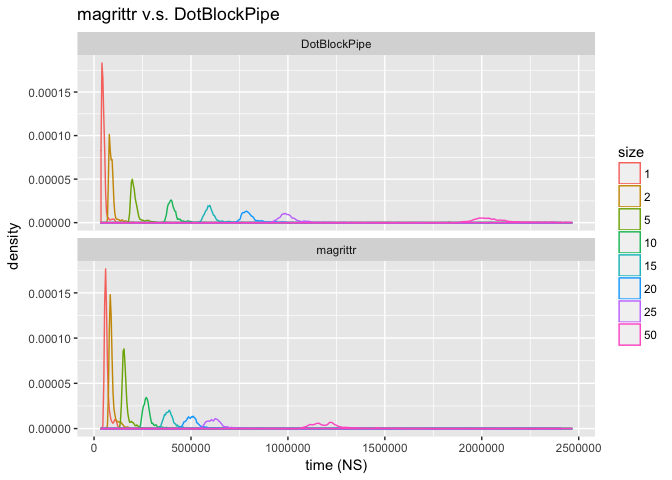
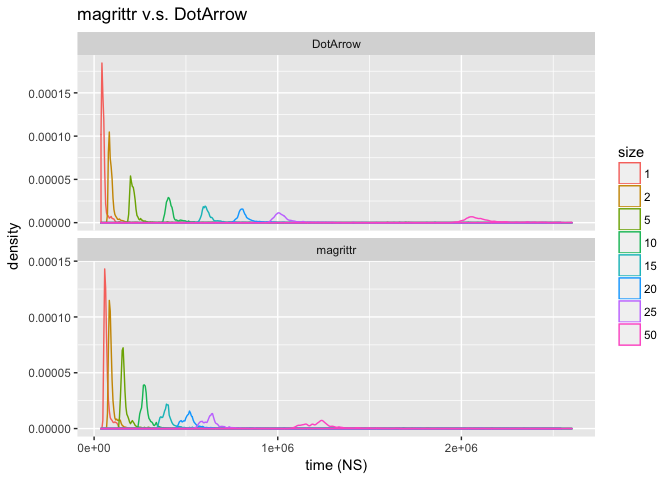
change names

diff --git a/extras/PipePerformance.md b/extras/PipePerformance.md
@@ -1,11 +1,11 @@
-Some timings for [`%.>%`](http://www.win-vector.com/blog/2017/07/in-praise-of-syntactic-sugar/).
+Some timings for [`%.>%`](http://www.win-vector.com/blog/2017/07/in-praise-of-syntactic-sugar/) ("dot arrow").
 
 Keep in mind for any *serious* application the calculation time on data will far dominate any piping overhead, but it is fun to look.
 
 So we will compare:
 
 -   `magrittr*` `magrittr::%>%` substitution.
--   `DotBlockPipe*` `wrapr::%.>%` substitution.
+-   `DotArrow*` `wrapr::%.>%` substitution.
 -   `BizarroPipe*` `->.;` substitution.
 
 ``` r
@@ -32,7 +32,7 @@ print(BizarroPipe_5)
     ## }
 
 ``` r
-print(DotBlockPipe_5)
+print(DotArrow_5)
 ```
 
     ## function () 
@@ -56,7 +56,7 @@ BizarroPipe_10()
     ## [1] -0.4774053
 
 ``` r
-DotBlockPipe_10()
+DotArrow_10()
 ```
 
     ## [1] -0.4774053
@@ -70,28 +70,28 @@ magrittr_10()
 ``` r
 bm <- microbenchmark(
   magrittr_1(),
-  DotBlockPipe_1(),
+  DotArrow_1(),
   BizarroPipe_1(),
   magrittr_2(),
-  DotBlockPipe_2(),
+  DotArrow_2(),
   BizarroPipe_2(),
   magrittr_5(),
-  DotBlockPipe_5(),
+  DotArrow_5(),
   BizarroPipe_5(),
   magrittr_10(),
-  DotBlockPipe_10(),
+  DotArrow_10(),
   BizarroPipe_10(),
   magrittr_15(),
-  DotBlockPipe_15(),
+  DotArrow_15(),
   BizarroPipe_15(),
   magrittr_20(),
-  DotBlockPipe_20(),
+  DotArrow_20(),
   BizarroPipe_20(),
   magrittr_25(),
-  DotBlockPipe_25(),
+  DotArrow_25(),
   BizarroPipe_25(), 
   magrittr_50(),
-  DotBlockPipe_50(),
+  DotArrow_50(),
   BizarroPipe_50(), 
   times=1000L
 )
@@ -99,56 +99,56 @@ print(bm)
 ```
 
     ## Unit: nanoseconds
-    ##               expr     min        lq        mean    median        uq
-    ##       magrittr_1()   49785   56912.5   69493.461   61248.0   68033.5
-    ##   DotBlockPipe_1()   35843   40754.5   49773.803   45063.0   51652.5
-    ##    BizarroPipe_1()     235    1007.0    2574.675    1483.5    1738.0
-    ##       magrittr_2()   72442   81543.5   94173.487   86616.0   93575.0
-    ##   DotBlockPipe_2()   71109   79621.0   97903.294   87159.5   95066.5
-    ##    BizarroPipe_2()     283    1224.5    3460.313    1596.5    1815.5
-    ##       magrittr_5()  134732  150432.0  169389.760  156668.5  166102.0
-    ##   DotBlockPipe_5()  178816  195179.0  224559.392  204326.5  217448.0
-    ##    BizarroPipe_5()     395    1409.5    4951.969    1859.0    2124.5
-    ##      magrittr_10()  236226  259765.5  295810.353  271615.5  284856.5
-    ##  DotBlockPipe_10()  359045  387702.0  430698.131  400453.5  417779.0
-    ##   BizarroPipe_10()     569    1690.5    7909.038    2161.0    2454.5
-    ##      magrittr_15()  336208  370699.5  423379.597  386789.0  403934.0
-    ##  DotBlockPipe_15()  541747  581219.5  639857.959  596953.5  616747.5
-    ##   BizarroPipe_15()     725    1643.5    9429.208    2185.0    2486.5
-    ##      magrittr_20()  438164  484500.0  547503.970  506089.5  526963.0
-    ##  DotBlockPipe_20()  726609  773966.5  869269.764  794647.5  824726.5
-    ##   BizarroPipe_20()     890    2054.5   12136.100    2523.0    2842.5
-    ##      magrittr_25()  539184  595130.5  677442.105  623097.5  648832.5
-    ##  DotBlockPipe_25()  908188  972307.5 1068904.649  998401.0 1033680.0
-    ##   BizarroPipe_25()    1055    2129.5   15094.721    2493.5    2799.0
-    ##      magrittr_50() 1060972 1146916.0 1362917.546 1205028.0 1251479.5
-    ##  DotBlockPipe_50() 1880236 1993322.0 2194177.990 2045266.5 2139704.0
-    ##   BizarroPipe_50()    1883    2945.5   27738.108    3542.5    3899.5
+    ##              expr     min        lq        mean    median        uq
+    ##      magrittr_1()   48278   57410.0   74216.642   62335.5   70707.0
+    ##      DotArrow_1()   37588   41809.0   52815.890   47109.0   52947.0
+    ##   BizarroPipe_1()     252    1049.0    3847.904    1467.5    1687.0
+    ##      magrittr_2()   73407   82568.5   97809.177   88267.0   97404.5
+    ##      DotArrow_2()   73481   81419.5  100928.773   88392.0   97672.0
+    ##   BizarroPipe_2()     340    1217.5    3509.339    1563.0    1780.0
+    ##      magrittr_5()  135607  152573.5  179806.616  159279.0  171085.0
+    ##      DotArrow_5()  182917  199828.0  229331.954  209792.0  221823.0
+    ##   BizarroPipe_5()     450    1383.0    5444.047    1892.0    2130.5
+    ##     magrittr_10()  239538  266117.0  310490.505  276787.5  289833.5
+    ##     DotArrow_10()  367405  399093.5  449396.838  410993.5  427876.5
+    ##  BizarroPipe_10()     664    1761.5   10335.687    2209.0    2495.0
+    ##     magrittr_15()  338597  379769.0  448122.763  396393.5  414006.0
+    ##     DotArrow_15()  552261  596873.5  667747.475  611742.0  637799.0
+    ##  BizarroPipe_15()     851    2006.5   11397.370    2554.0    2911.0
+    ##     magrittr_20()  446938  497076.5  631725.125  519712.5  541603.5
+    ##     DotArrow_20()  743556  796240.5  889188.471  812292.5  845972.0
+    ##  BizarroPipe_20()    1011    2059.5   16645.098    2594.0    2918.0
+    ##     magrittr_25()  544492  605358.0  698787.796  636039.0  659676.0
+    ##     DotArrow_25()  946591  997046.0 1113292.066 1020783.0 1061814.0
+    ##  BizarroPipe_25()    1203    2181.5   16147.803    2754.5    3039.5
+    ##     magrittr_50() 1068858 1171986.5 1356338.414 1233707.5 1288004.5
+    ##     DotArrow_50() 1945913 2049705.5 2288900.429 2096860.0 2200436.5
+    ##  BizarroPipe_50()    2186    3198.0   32573.278    3723.0    4040.5
     ##       max neval
-    ##   1438948  1000
-    ##   1412537  1000
-    ##   1197516  1000
-    ##   2014716  1000
-    ##   2201503  1000
-    ##   1945315  1000
-    ##   3936573  1000
-    ##   3907841  1000
-    ##   3211876  1000
-    ##   7841107  1000
-    ##   9174931  1000
-    ##   5822802  1000
-    ##  10457276  1000
-    ##  12526355  1000
-    ##   7360532  1000
-    ##  15202177  1000
-    ##  14699481  1000
-    ##   9688122  1000
-    ##  17094708  1000
-    ##  20796798  1000
-    ##  12602971  1000
-    ##  54939886  1000
-    ##  35825099  1000
-    ##  24298838  1000
+    ##   1818601  1000
+    ##   1597759  1000
+    ##   2455099  1000
+    ##   2699588  1000
+    ##   2772309  1000
+    ##   2007713  1000
+    ##   4983930  1000
+    ##   5385437  1000
+    ##   3645719  1000
+    ##  11889289  1000
+    ##   9278748  1000
+    ##   8218859  1000
+    ##  24017032  1000
+    ##  22673827  1000
+    ##   8927563  1000
+    ##  52668432  1000
+    ##  18866664  1000
+    ##  14137162  1000
+    ##  23786422  1000
+    ##  22128966  1000
+    ##  13471037  1000
+    ##  50099265  1000
+    ##  42803779  1000
+    ##  28930449  1000
 
 ``` r
 autoplot(bm)
@@ -178,8 +178,8 @@ mkPlot(d, 'all timings')
 ![](PipePerformance_files/figure-markdown_github/replot-1.png)
 
 ``` r
-mkPlot(d[d$fn %in% c('magrittr', 'DotBlockPipe'), , drop=FALSE], 
-       'magrittr v.s. DotBlockPipe')
+mkPlot(d[d$fn %in% c('magrittr', 'DotArrow'), , drop=FALSE], 
+       'magrittr v.s. DotArrow')
 ```
 
 ![](PipePerformance_files/figure-markdown_github/replot-2.png)
@@ -207,10 +207,10 @@ dfits$fn <- names(fits)
 print(dfits)
 ```
 
-    ##    Intercept       size           fn
-    ## 1  2297.5922   507.1359  BizarroPipe
-    ## 2  -817.0898 43606.8883 DotBlockPipe
-    ## 3 34019.6226 26312.1351     magrittr
+    ##   Intercept       size          fn
+    ## 1  3061.743   589.1139 BizarroPipe
+    ## 2 -3621.605 45473.2401    DotArrow
+    ## 3 54050.950 26288.1987    magrittr
 
 ``` r
 # solve for size where two lines interesect.
@@ -224,19 +224,19 @@ solve <- function(dfits, f1, f2) {
   size
 }
 
-crossingPoint <- solve(dfits, 'DotBlockPipe', 'magrittr')
+crossingPoint <- solve(dfits, 'DotArrow', 'magrittr')
 print(crossingPoint)
 ```
 
-    ## [1] 2.014294
+    ## [1] 3.006121
 
 ``` r
-ratio <- dfits$size[dfits$fn=='DotBlockPipe'] / dfits$size[dfits$fn=='magrittr']
+ratio <- dfits$size[dfits$fn=='DotArrow'] / dfits$size[dfits$fn=='magrittr']
 print(ratio)
 ```
 
-    ## [1] 1.657292
+    ## [1] 1.729797
 
 Overall:
 
-DotBlockPipe is about 1.7 times slower than magrittr on large pipelines, though this cost will be unnoticeable with in any significant workload.
+DotArrow is about 1.7 times slower than magrittr on large pipelines, though this cost will be unnoticeable with in any significant workload.
